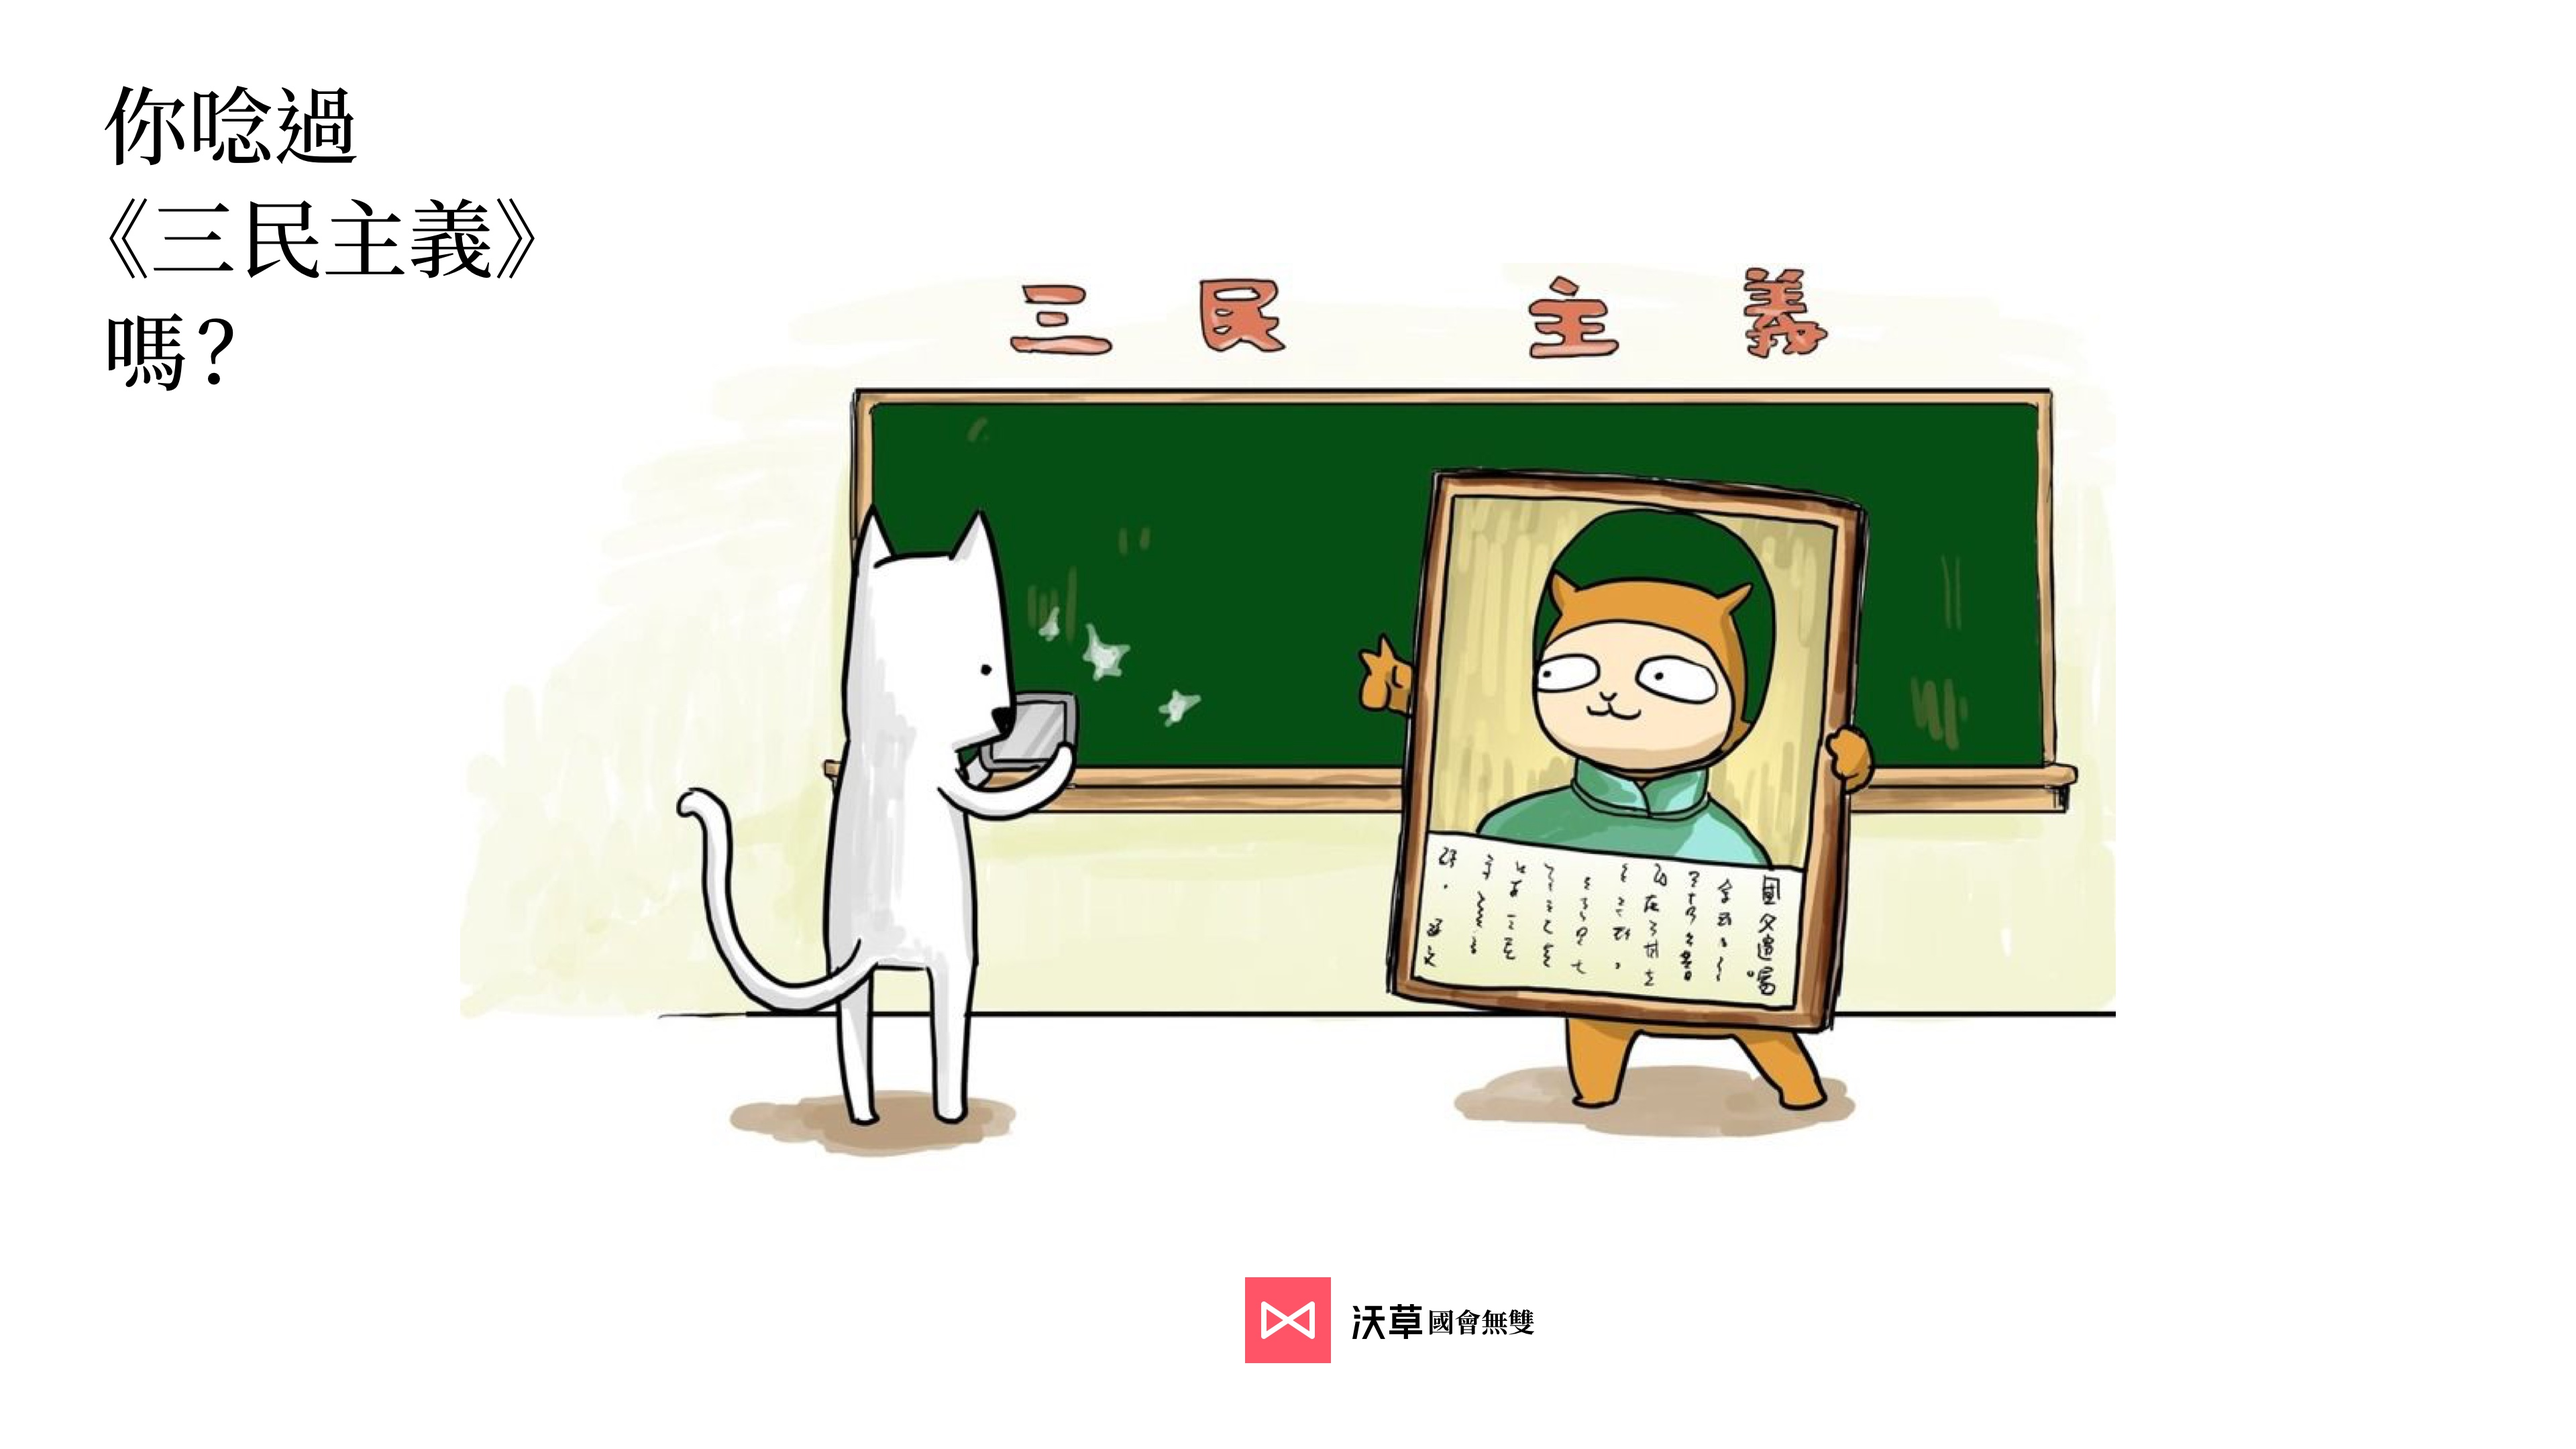
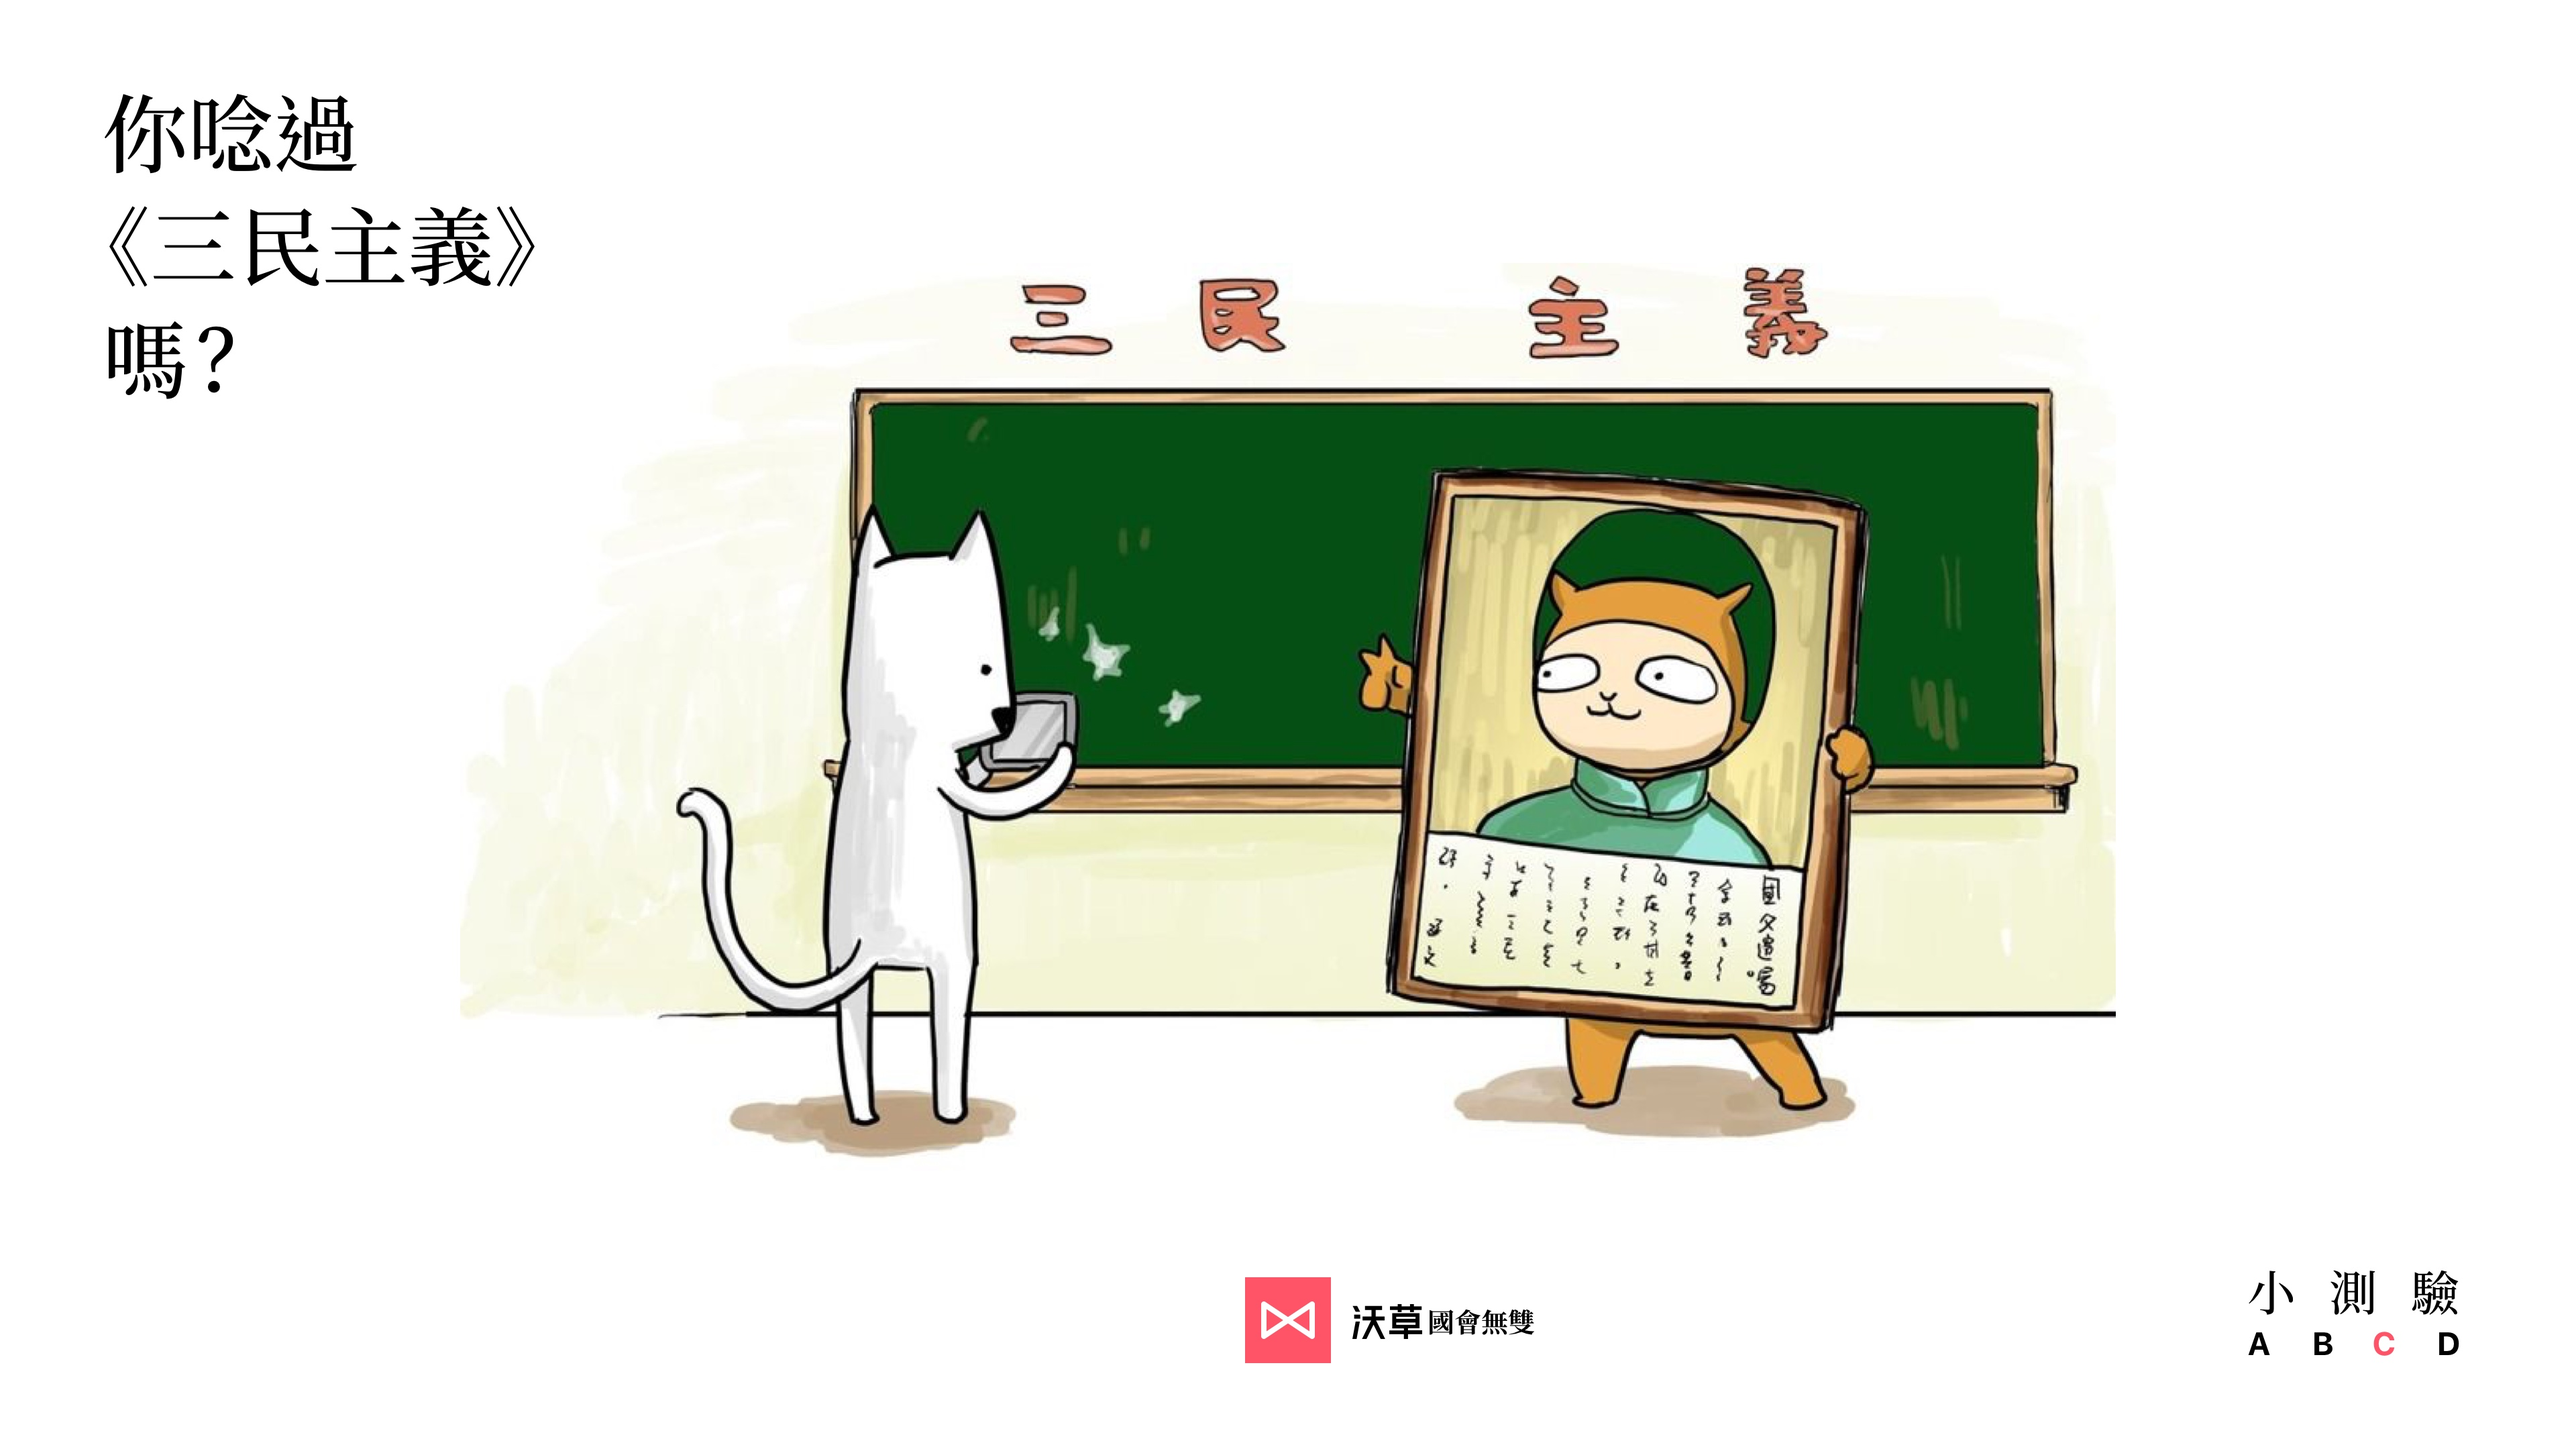
sim-test → qz

Changed region(s): [[0.0312, 0.062, 0.2188, 0.2792], [0.875, 0.8685, 0.9688, 0.9306]]

diff --git a/src/menu.js b/src/menu.js
@@ -1,14 +1,14 @@
 exports.default = [
   {
-    id: 'sim-test',
-    image: 'sim-test.png',
-    title: '模擬考',
-    description: '中華民國的教育系統最喜歡考試了，沃草也設計了模擬考，要來測試你是不是個好學生。',
+    id: 'qz',
+    image: 'qz.png',
+    title: '小測驗',
+    description: '中華民國的教育系統最喜歡考試了。沃草也有小測驗，現在就試試看，看你是不是個好學生。',
     component: 'longform',
     pages: [
       {
         id: '3-principles',
-        title: '你唸過《三民主義》嗎？',
+        title: '你唸過三民主義嗎？',
         image: '3-principles.jpg',
         date: '2017-11-12 20:00:00',
         breaking: true

diff --git a/src/components/LongForm.vue b/src/components/LongForm.vue
@@ -38,7 +38,7 @@ export default {
   mixins: [knowsMarkdown],
   metaInfo() {
     return {
-      title: `→沃草←${this.config.title}→國會無雙←`,
+      title: `《${this.config.seriesTitle}》${this.config.title}→沃草←國會無雙`,
       meta: [
         {
           vmid: 'og-image',
